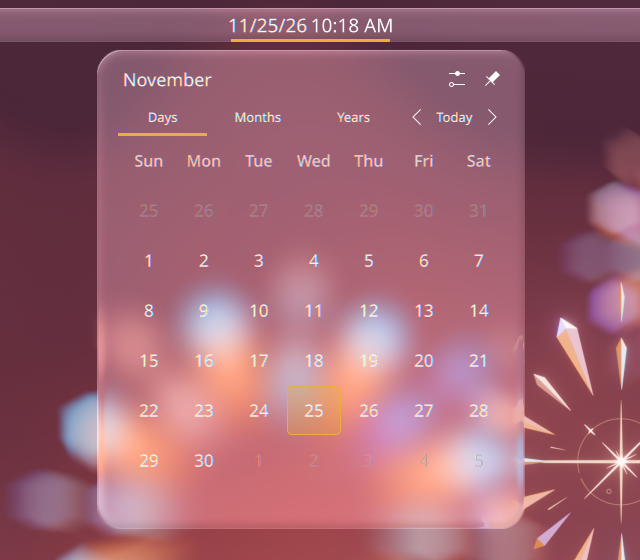
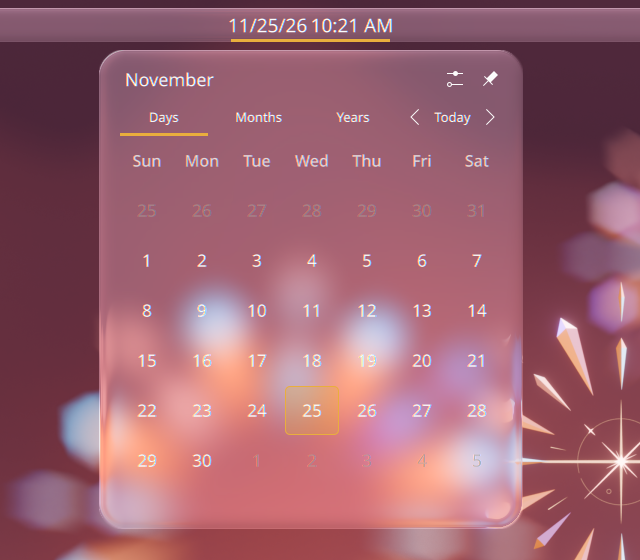
KDE: stronger refraction with flat edges
Raise DisplacementScale to 200, BezelWidth to 24 and EdgeClarity to 0.6 so
the bezel visibly lenses the background, while keeping edge shading low.
Retake the screenshots.

diff --git a/kde-liquid-glass/src/liquidglass.cpp b/kde-liquid-glass/src/liquidglass.cpp
@@ -102,10 +102,10 @@ LiquidGlassEffect::LiquidGlassEffect()
     // Defaults: the Three.js prototype's lighting, with a frosted body and a refractive bezel.
     m_params = {
         {"MaxZ", "max_z", 10.0},
-        {"DisplacementScale", "displacement_scale", 90.0},
+        {"DisplacementScale", "displacement_scale", 200.0},
         {"EdgeSmoothing", "edge_smoothing", 2.4},
         {"ProfileShapeN", "profile_shape_n", 3.4},
-        {"BezelWidth", "bezel_width", 16.0},
+        {"BezelWidth", "bezel_width", 24.0},
         {"IOR", "ior", 2.40},
         {"ChromaStrength", "chroma_strength", 0.006},
         {"TintStrength", "tint_strength", 0.22},
@@ -121,7 +121,7 @@ LiquidGlassEffect::LiquidGlassEffect()
         {"Brightness", "brightness", 1.05},
         {"Contrast", "contrast", 1.0},
         {"Saturation", "saturation", 1.4},
-        {"EdgeClarity", "edge_clarity", 0.35},
+        {"EdgeClarity", "edge_clarity", 0.6},
         {"EdgeShading", "edge_shading", 0.08},
     };
     for (FloatParam &param : m_params) {

diff --git a/kde-liquid-glass/README.md b/kde-liquid-glass/README.md
@@ -115,14 +115,14 @@ qdbus6 org.kde.KWin /KWin reconfigure
 | TintColor | #ffffff | |
 | TintStrength | 0.22 | |
 | MaxZ | 10 | glass thickness |
-| DisplacementScale | 90 | refraction strength |
-| BezelWidth | 16 | px over which the glass curves; flat beyond it |
+| DisplacementScale | 200 | refraction strength |
+| BezelWidth | 24 | px over which the glass curves; flat beyond it |
 | IOR | 2.4 | |
 | ProfileShapeN | 3.4 | dome curvature (superellipse n) |
 | EdgeSmoothing | 2.4 | |
 | ChromaStrength | 0.006 | chromatic aberration |
 | RimWidth / RimIntensity / RimPower / RimDirectionalPower / RimLightColorIntensity | 2 / 0.6 / 8 / 1.7 / 2.5 | |
-| EdgeClarity | 0.35 | 0–1, how sharp (unblurred) the lensed background is in the bezel |
+| EdgeClarity | 0.6 | 0–1, how sharp (unblurred) the lensed background is in the bezel |
 | EdgeShading | 0.08 | 0–1, light/dark shading across the bezel from its curvature |
 | SpecularIntensity / Shininess | 0 / 42 | |
 | SheenIntensity | 0.1 | |
